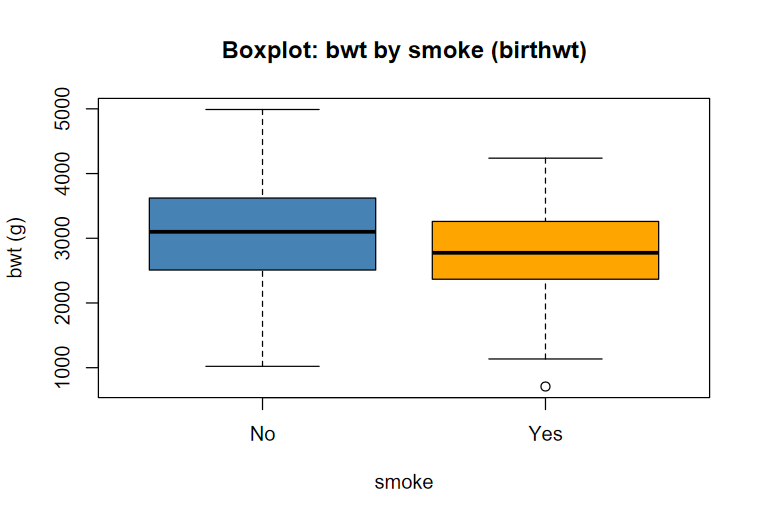
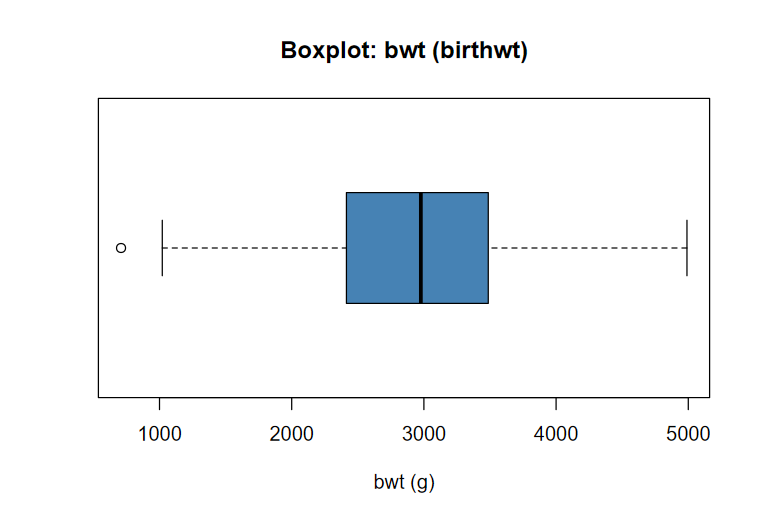
第1章「什麼資料用什麼圖？」納入生統講義第3章的例子，依變數組合分類並說明各圖表達的關係
- 兩數值：散佈圖(bodyfat 腹圍與體脂率)、成對散佈圖與相關係數矩陣(Protein)、折線圖
- 兩類別：列聯表與條件比例(smoke × low)、分組長條圖(race × smoke)、馬賽克圖
- 數值 × 類別：分組條帶圖、分組盒形圖(cabbages Cult × VitC)、平均數圖(Pima.tr weight.status × bp)
- 修正手機上統計學章節文末市場實例表格撐寬頁面的問題

diff --git a/web/assets/css/components.css b/web/assets/css/components.css
@@ -344,3 +344,6 @@
   table.heat td{font-size:11.5px;padding:5px 6px;}
   table.heat td:first-child{text-align:center;}
   .greek-grid{display:grid;grid-template-columns:repeat(auto-fit,minmax(300px,1fr));gap:18px 22px;margin-top:10px;}
+
+  /* 統計學章節文末的台股市場實例：表格在手機上可左右捲動，不撐寬整頁 */
+  .live-box{overflow-x:auto;}

diff --git a/web/content/stats/basic/ch01.md b/web/content/stats/basic/ch01.md
@@ -55,35 +55,50 @@ birthwt$smoke <- factor(birthwt$smoke, labels = c("No", "Yes"))
 
 ## 什麼資料用什麼圖？
 
-| 資料 | 想看什麼 | 圖形 | R 函數 |
-|---|---|---|---|
-| 一個類別變數 | 各類別的次數 | 長條圖(bar graph) | `barplot(table(x))` |
-| 一個類別變數 | 各類別佔整體的比例 | 圓餅圖(pie chart) | `pie(table(x))` |
-| 一個數值變數 | 分配的形狀(對稱、偏態、雙峰) | 直方圖(histogram) | `hist(x)` |
-| 一個數值變數 | 少量資料的分配，保留原始數值 | 莖葉圖(stem-and-leaf plot) | `stem(x)` |
-| 一個數值變數(可分組比較) | 五數摘要、離群值 | 盒形圖(boxplot) | `boxplot(y ~ group)` |
-| 兩個數值變數 | 兩者的關係 | 散佈圖(scatter plot) | `plot(x, y)` |
-| 隨時間變化的數值 | 趨勢與季節性 | 折線圖(line chart) | `plot(ts)` |
+選圖之前先問兩件事：**要看幾個變數？** 以及 **每個變數是類別還是數值？** 圖形的任務不同：一個變數看的是「分配」，兩個變數看的是「關係」。
 
-**長條圖：** `Pima.tr` 中是否患有糖尿病(`type`)的人數。
+| 變數組合 | 圖形 | 表達什麼 | R 函數 | 講義例子 |
+|---|---|---|---|---|
+| 一個類別 | 長條圖(bar graph) | 各類別的次數(多寡比較) | `barplot(table(x))` | `Pima.tr` 的 `type` |
+| 一個類別 | 圓餅圖(pie chart) | 各類別占整體的比例(組成) | `pie(table(x))` | `birthwt` 的 `race` |
+| 一個數值 | 直方圖(histogram) | 分配的形狀：對稱、偏態、單峰或雙峰 | `hist(x)` | `Pima.tr` 的 `bmi` |
+| 一個數值 | 莖葉圖(stem-and-leaf) | 少量資料的分配，同時保留原始數值 | `stem(x)` | `birthwt` 的 `age` |
+| 一個數值 | 盒形圖(boxplot) | 五數摘要、離散程度與離群值 | `boxplot(x)` | `birthwt` 的 `bwt` |
+| 兩個數值 | 散佈圖(scatterplot) | 兩變數的**相關**：方向、形式(線性或非線性)、強度 | `plot(x, y)` | `bodyfat`：`abdomen` 與 `siri` |
+| 多個數值 | 成對散佈圖(scatterplot matrix) | 多個變數**兩兩之間**的相關 | `pairs(df)` | `Protein`：Cereals、Eggs、RedMeat、Fish |
+| 時間 × 數值 | 折線圖(line chart) | 數值**隨時間**的趨勢與季節性 | `plot(ts)` | `AirPassengers` |
+| 兩個類別 | 列聯表(contingency table) | 兩變數的**關聯**：各組的條件比例是否不同 | `table(x, y)` | `birthwt`：`smoke` 與 `low` |
+| 兩個類別 | 分組長條圖 / 馬賽克圖 | 一個類別變數的分配**在另一個變數各組之間**是否不同 | `barplot(table(y, x))`、`mosaicplot(table(x, y))` | `birthwt`：`race` 與 `smoke` |
+| 數值 × 類別 | 分組條帶圖(strip chart) | 數值變數**在各組之間的差異**(樣本少時，畫出每一點) | `stripchart(y ~ g)` | `cabbages`：`Cult` 與 `VitC` |
+| 數值 × 類別 | 分組盒形圖(boxplot by group) | 各組的中位數、離散程度與離群值比較(樣本多時) | `boxplot(y ~ g)` | `cabbages`：`Cult` 與 `VitC` |
+| 數值 × 類別 | 平均數圖(plot of means) | 各組**平均數**如何隨組別變化(多組、組別有順序時) | 各組平均後 `plot(m, type = "b")` | `Pima.tr`：`weight.status` 與 `bp` |
+
+> **自變數與依變數**：探討兩變數關係時，通常把「可能影響別人」的變數(自變數，explanatory variable)放在橫軸或當成分組，把「被影響」的變數(依變數，response variable)放在縱軸。例如腹圍 → 體脂率、甘藍品種 → 維生素 C 含量。
+
+### 一個類別變數：長條圖、圓餅圖
+
+**長條圖**比較各類別的**次數多寡**，長條高度代表次數；類別之間沒有順序時，長條的排列可以任意調整。例：`Pima.tr` 中是否患有糖尿病(`type`)的人數。
 
 ```r
+library(MASS)
 barplot(table(Pima.tr$type), col = "steelblue",
         main = "Bar graph: type (Pima.tr)", xlab = "type", ylab = "Frequency")
 ```
 
 ![長條圖：Pima.tr 的 type(No = 132 人，Yes = 68 人)](img/ch01-bar.png)
 
-**圓餅圖：** `birthwt` 中母親種族(`race`)的組成比例。
+**圓餅圖**呈現各類別占**整體的比例**(組成)，所有扇形加起來是 100%。類別太多或比例相近時不易比較，這時長條圖較好。例：`birthwt` 中母親種族(`race`)的組成。
 
 ```r
-pie(table(birthwt$race), col = c("steelblue", "orange", "grey70"),
-    main = "Pie chart: race (birthwt)")
+race <- factor(birthwt$race, labels = c("White", "African-American", "Other"))
+pie(table(race), col = c("steelblue", "orange", "grey70"), main = "Pie chart: race (birthwt)")
 ```
 
 ![圓餅圖：birthwt 的 race(White 96、African-American 26、Other 67)](img/ch01-pie.png)
 
-**直方圖：** `Pima.tr` 中 BMI 的分配，大致呈對稱的鐘形(偏態係數約 0.03)。
+### 一個數值變數：直方圖、莖葉圖、盒形圖
+
+**直方圖**把數值分組後畫出各組次數，用來看**分配的形狀**：對稱或偏態、單峰或雙峰、有無離群值。例：`Pima.tr` 的 BMI 大致呈對稱的鐘形(偏態係數約 0.03)。
 
 ```r
 hist(Pima.tr$bmi, col = "steelblue", border = "white",
@@ -92,7 +107,7 @@ hist(Pima.tr$bmi, col = "steelblue", border = "white",
 
 ![直方圖：Pima.tr 的 bmi](img/ch01-hist.png)
 
-**莖葉圖：** `birthwt` 中母親年齡(`age`)。
+**莖葉圖**的功能和直方圖相同，但保留了每一筆原始數值，適合資料量少時。例：`birthwt` 中母親年齡(`age`)。
 
 ```r
 stem(birthwt$age)
@@ -103,26 +118,59 @@ stem(birthwt$age)
 #   ...
 ```
 
-**盒形圖：** 依母親是否吸菸(`smoke`)比較嬰兒出生體重(`bwt`)，吸菸組的中位數較低，且有一個離群值。
+**盒形圖**畫出五數摘要(最小值、$Q_1$、中位數、$Q_3$、最大值)，盒子長度就是四分位距 IQR，鬚以外的點是可能的離群值。例：`birthwt` 的出生體重，盒子為 $(Q_1, M_e, Q_3) = (2414, 2977, 3487)$，左側的 709 g 為離群值。
 
 ```r
-boxplot(bwt ~ smoke, data = birthwt, col = c("steelblue", "orange"),
-        main = "Boxplot: bwt by smoke (birthwt)", xlab = "smoke", ylab = "bwt (g)")
+boxplot(birthwt$bwt, horizontal = TRUE, col = "steelblue",
+        main = "Boxplot: bwt (birthwt)", xlab = "bwt (g)")
 ```
 
-![盒形圖：birthwt 的 bwt，依 smoke 分組](img/ch01-box.png)
+![盒形圖：birthwt 的 bwt](img/ch01-box.png)
 
-**散佈圖：** 母親體重(`lwt`)與嬰兒出生體重(`bwt`)的關係，橘線為迴歸直線(第 11 章)。
+### 兩個數值變數：散佈圖、成對散佈圖、折線圖
+
+**散佈圖**把每個觀察值畫成一點(橫軸 $X$、縱軸 $Y$)，用來看兩個數值變數的**相關**：
+
+- **方向**：$X$ 越大 $Y$ 也越大為**正相關**，$X$ 越大 $Y$ 越小為**負相關**。
+- **形式**：點大致沿著直線分布為**線性**關係，沿著曲線則為非線性。
+- **強度**：點越集中在直線附近，關係越強；可用 Pearson 相關係數 $r$ 量化線性關係的強度與方向($-1 \le r \le 1$，第 4、11 章)。
+
+例：`bodyfat`(mfp 套件)中 252 位男性的腹圍(`abdomen`)與體脂百分比(`siri`)呈**正向線性關係**，$r = 0.81$；橘線為迴歸直線(第 11 章)。
 
 ```r
-plot(bwt ~ lwt, data = birthwt, pch = 19, col = "steelblue",
-     main = "Scatter plot: bwt vs lwt (birthwt)", xlab = "lwt (lb)", ylab = "bwt (g)")
-abline(lm(bwt ~ lwt, data = birthwt), col = "orange", lwd = 2)
+install.packages("mfp")              # 第一次使用時安裝
+library(mfp); data(bodyfat)
+plot(siri ~ abdomen, data = bodyfat, col = "steelblue",
+     main = "Scatter plot: siri vs abdomen (bodyfat)", xlab = "abdomen (cm)", ylab = "siri (% body fat)")
+abline(lm(siri ~ abdomen, data = bodyfat), col = "orange", lwd = 2)
+cor(bodyfat$abdomen, bodyfat$siri)   # 0.813
 ```
 
-![散佈圖：birthwt 的 lwt 與 bwt](img/ch01-scatter.png)
+![散佈圖：bodyfat 的腹圍與體脂百分比，呈正向線性關係](img/ch01-scatter.png)
 
-**折線圖：** R 內建的 `AirPassengers`(1949～1960 每月航空旅客數)，可看出上升趨勢與季節性。
+**成對散佈圖(散佈圖矩陣)**一次畫出多個數值變數**兩兩之間**的散佈圖，第 $i$ 列第 $j$ 欄就是第 $i$ 個變數(縱軸)對第 $j$ 個變數(橫軸)；對角線畫各變數自己的直方圖。例：歐洲 25 國的蛋白質來源(`Protein` 資料)，搭配相關係數矩陣一起看：
+
+```r
+protein <- read.table("https://raw.githubusercontent.com/WinVector/zmPDSwR/master/Protein/protein.txt",
+                      sep = "\t", header = TRUE)
+vars <- c("Cereals", "Eggs", "RedMeat", "Fish")
+pairs(protein[, vars], col = "steelblue")
+round(cor(protein[, vars]), 2)
+```
+
+![成對散佈圖：Protein 資料的 Cereals、Eggs、RedMeat、Fish](img/ch01-pairs.png)
+
+|  | Cereals | Eggs | RedMeat | Fish |
+|---|---|---|---|---|
+| Cereals | 1 | −0.71 | −0.50 | −0.52 |
+| Eggs | −0.71 | 1 | 0.59 | 0.07 |
+| RedMeat | −0.50 | 0.59 | 1 | 0.06 |
+| Fish | −0.52 | 0.07 | 0.06 | 1 |
+
+- Eggs 與 Cereals 呈**負向**關係($r = -0.71$)，與 RedMeat 呈**正向**關係($r = 0.59$)：吃較多蛋的國家，穀類蛋白較少、紅肉較多。
+- Fish 與 Cereals 呈負向線性關係，與 Eggs、RedMeat 則**沒有明顯的線性關係**($r \approx 0.06$)。
+
+**折線圖**是橫軸為時間的散佈圖，把相鄰時間點連起來，用來看數值**隨時間**的趨勢、季節性與轉折。例：R 內建的 `AirPassengers`(1949～1960 每月航空旅客數)，有明顯的上升趨勢與每年夏季的高峰。
 
 ```r
 plot(AirPassengers, col = "steelblue", lwd = 2,
@@ -130,6 +178,80 @@ plot(AirPassengers, col = "steelblue", lwd = 2,
 ```
 
 ![折線圖：AirPassengers](img/ch01-line.png)
+
+### 兩個類別變數：列聯表、分組長條圖、馬賽克圖
+
+**列聯表(contingency table)**把兩個類別變數交叉分類、計算每一格的次數，用來看兩變數是否有**關聯**：比較各組的**條件比例**，比例差很多就表示兩變數有關。例：`birthwt` 中母親是否吸菸(`smoke`)與嬰兒是否低出生體重(`low`)：
+
+```r
+table(smoke = birthwt$smoke, low = birthwt$low)
+prop.table(table(birthwt$smoke, birthwt$low), margin = 1)   # 每列各自加總為 1
+```
+
+| smoke ＼ low | 0(正常) | 1(低體重) | 合計 | 低體重比例 |
+|---|---|---|---|---|
+| 0(不吸菸) | 86 | 29 | 115 | 25.2% |
+| 1(吸菸) | 44 | 30 | 74 | 40.5% |
+
+吸菸組生出低體重嬰兒的比例(40.5%)明顯高於不吸菸組(25.2%)，兩變數似乎有關聯。關聯的強度可以用相對風險、勝算比衡量，是否顯著則用卡方檢定(第 12 章)。
+
+**分組長條圖**把一個類別變數依另一個類別變數分組畫出(講義的 bar by group，這裡畫成堆疊長條圖)，看**各組的組成是否不同**。例：`birthwt` 中不同種族(`race`)母親的吸菸情形，White 組吸菸者(52 人)多於不吸菸者(44 人)，Other 組則以不吸菸者為主(55 比 12)，種族與吸菸有關。
+
+```r
+smoke <- factor(birthwt$smoke, labels = c("No", "Yes"))
+barplot(table(smoke, race), col = c("#e48ca0", "#3dbcb4"), legend.text = TRUE,
+        args.legend = list(title = "smoke"), xlab = "race", ylab = "Frequency")
+```
+
+![分組長條圖：birthwt 中不同種族的吸菸人數](img/ch01-groupbar.png)
+
+**馬賽克圖(mosaic plot)**是列聯表的圖形版：每一欄的寬度代表該組人數，欄內各塊的高度代表條件比例。若兩變數獨立，各欄的切分高度會一樣；高度差越多，關聯越強。
+
+```r
+low <- factor(birthwt$low, labels = c("Normal", "Low"))
+mosaicplot(table(smoke, low), color = c("grey80", "orange"), main = "Mosaic plot: smoke vs low (birthwt)")
+```
+
+![馬賽克圖：吸菸組的低體重(橘色)比例較高](img/ch01-mosaic.png)
+
+### 一個數值變數 × 一個類別變數：分組條帶圖、分組盒形圖、平均數圖
+
+類別變數把資料分成幾組，要看的是**數值變數在各組之間是否有差異**：組別不同時數值的分配也不同，就代表兩變數有關聯。
+
+**分組條帶圖(strip chart)**把每一組的每個觀察值都畫出來，適合**樣本數少**時。例：`cabbages`(MASS)中兩種甘藍品種(`Cult`)的維生素 C 含量(`VitC`)，各 30 株，c52 的點整體位置較高，兩變數似乎有關聯。
+
+```r
+stripchart(VitC ~ Cult, data = cabbages, vertical = TRUE, method = "jitter",
+           pch = 1, col = "steelblue", xlab = "Cult", ylab = "VitC")
+```
+
+![分組條帶圖：cabbages 兩品種的維生素 C 含量](img/ch01-strip.png)
+
+**分組盒形圖**把各組的五數摘要並排，**樣本數較大**時比條帶圖清楚，可同時比較中位數、離散程度與離群值：與 c39 相比，c52 的維生素 C 含量傾向較高。再搭配分組摘要統計量，兩品種的平均數差為 $64.4 - 51.5 = 12.9$(difference of means)。
+
+```r
+boxplot(VitC ~ Cult, data = cabbages, col = c("steelblue", "orange"), xlab = "Cult", ylab = "VitC")
+aggregate(VitC ~ Cult, data = cabbages, FUN = function(x) c(mean = mean(x), sd = sd(x)))
+#   Cult VitC.mean  VitC.sd
+# 1  c39    51.500    7.123
+# 2  c52    64.400    8.455
+```
+
+![分組盒形圖：cabbages 兩品種的維生素 C 含量](img/ch01-groupbox.png)
+
+**平均數圖(plot of means)**只畫各組的平均數並連線，適合**組別多、而且組別有順序**時，看平均數如何隨組別變化。例：`Pima.tr` 依 BMI 分成 4 個體重狀態(`weight.status`：Underweight $< 18.5 \le$ Normal $< 25 \le$ Overweight $< 30 \le$ Obese)，比較平均血壓(`bp`)：Normal 組最低(65.7)，之後隨體重增加而上升，Obese 組最高(73.1)，兩變數的關係為**非線性**。
+
+```r
+weight.status <- cut(Pima.tr$bmi, c(0, 18.5, 25, 30, Inf), right = FALSE,
+                     labels = c("Underweight", "Normal", "Overweight", "Obese"))
+m <- tapply(Pima.tr$bp, weight.status, mean)   # 67.0  65.7  68.9  73.1
+plot(m, type = "b", pch = 19, xaxt = "n", xlab = "Weight Status", ylab = "Mean blood pressure")
+axis(1, at = 1:4, labels = names(m))
+```
+
+![平均數圖：Pima.tr 不同體重狀態的平均血壓](img/ch01-means.png)
+
+> 平均數圖只顯示平均數，看不出各組的離散程度與樣本數(本例 Underweight 組只有 2 人，平均數很不穩定)；正式比較多組平均數要用變異數分析(第 10 章)。
 
 ## 敘述統計量
 

diff --git a/docs/CONTENT.md b/docs/CONTENT.md
@@ -137,6 +137,8 @@ cd C:\Users\User\little-trader
 "C:\Program Files\R\R-4.4.1\bin\Rscript.exe" web/content/stats/basic/r/ch01-figures.R web/content/stats/basic/img
 ```
 
+第一次執行前要先在 R 安裝 `mfp` 套件(`install.packages("mfp")`，bodyfat 資料在裡面)；Protein 資料會從網路讀取。
+
 想新增圖片：在 R 程式裡照著 `dev("檔名.png"); 畫圖指令; dev.off()` 的格式加一行，執行後在 `.md` 裡用 `![圖說](img/檔名.png)` 插入。
 
 ## 章節名稱、互動模擬與市場實例
